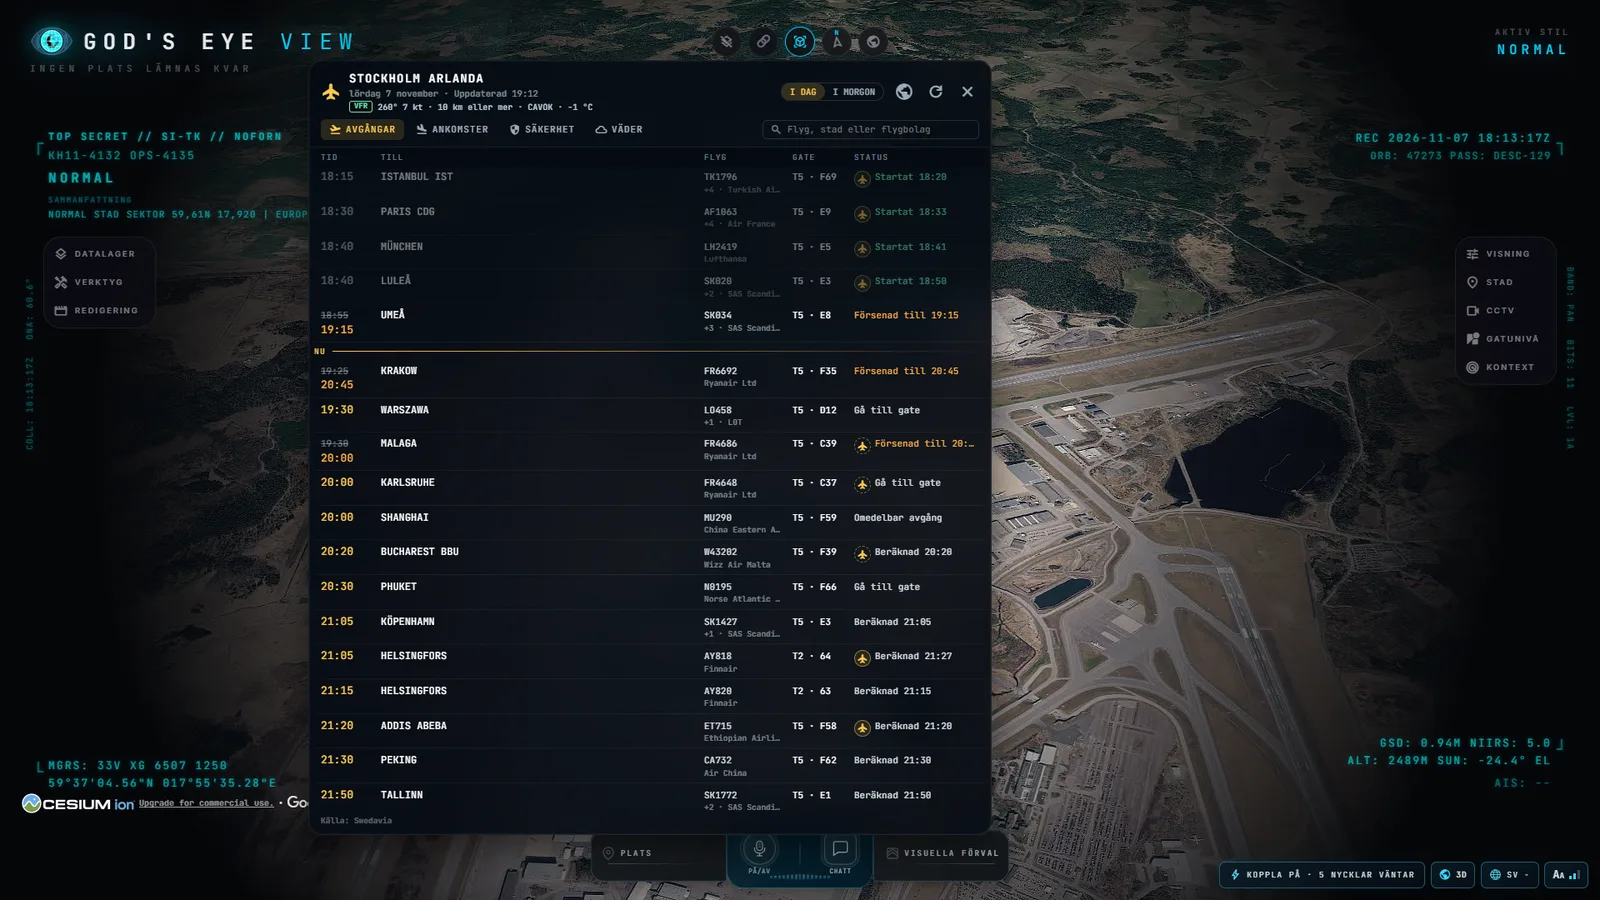
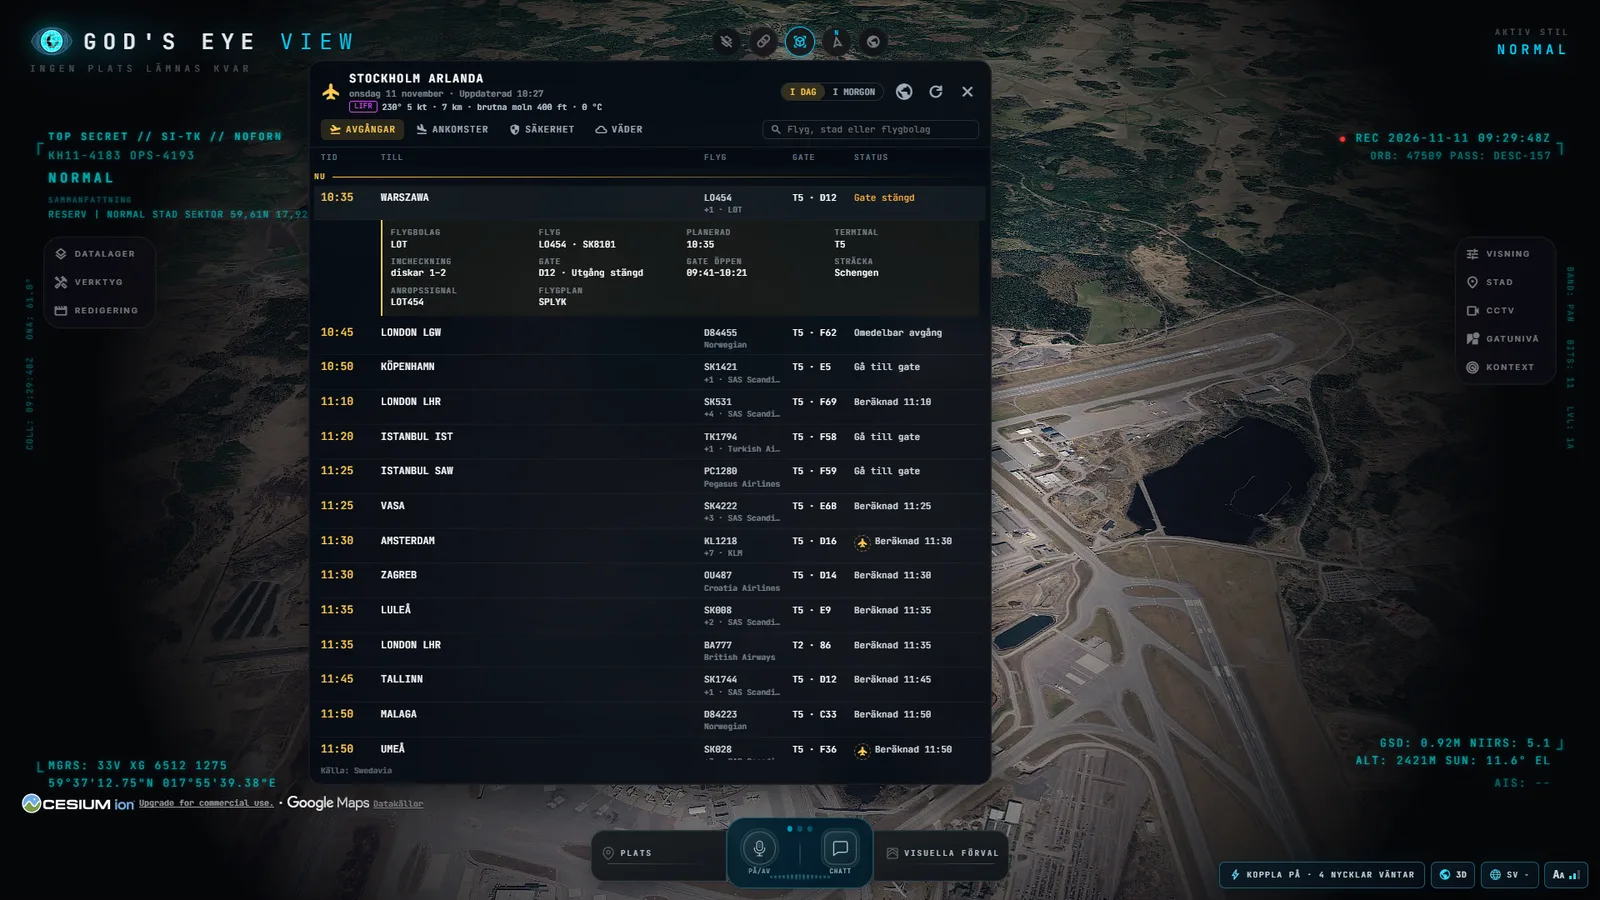
Flygtavlan täcker inte kartans källangivelse; Swedavias villkor lästa
- Flygtavlan slutar ovanför kartans källangivelse. Tidigare täckte den
  Google Maps- och Cesium-loggan, som enligt villkoren alltid ska synas.
- README:s bild av flygtavlan är tagen om, med loggorna synliga.
- SVERIGE.md: Swedavias villkor (licens att visa datan offentligt i en
  egen app, Swedavia ska anges som källa) ersätter "inga villkor
  publicerade"; Open-Meteos villkor för vädret i cockpit är tillagda.

Kontrollerat i inspelning i 3D-läget; inga kodändringar utöver stilmallen.
SVERIGE.md uppdaterad.

Changed region(s): [[0.0625, 0.0, 0.875, 1.0], [0.2188, 0.0933, 0.375, 0.1244], [0.8438, 0.84, 0.9375, 0.8711]]

diff --git a/src/ui/styles/airport-board.css b/src/ui/styles/airport-board.css
@@ -11,7 +11,9 @@
   display: flex;
   flex-direction: column;
   width: min(820px, calc(100vw - 32px));
-  max-height: calc(100svh - 150px);
+  /* Ends above the map credits (about 125px from the bottom): Google's and
+     Cesium's logos must never be covered. */
+  max-height: calc(100svh - 210px);
   box-sizing: border-box;
   border: 1px solid var(--glass-border);
   border-radius: var(--panel-radius);

diff --git a/SVERIGE.md b/SVERIGE.md
@@ -172,9 +172,19 @@ licens ska helst ersättas med en dokumenterad källa eller godkännas:
   för vad som helst. Priserna är Nord Pools och hämtas från ENTSO-E, där
   dagens priser inte står på listan över data som är fri att återanvända.
   Källan anges som "Elpriset just nu.se (Nord Pool via ENTSO-E)".
-- **Swedavia (flygtavlan, dossiern):** inga villkor publicerade; Swedavias
-  öppna API:er "kan delas" enligt deras frågor och svar. Swedavia anges som
-  källa.
+- **Swedavia (flygtavlan, dossiern, cockpit):** villkoren lästa 2026-11-11
+  (apideveloper.swedavia.se, "Terms of Use" vid registreringen). Swedavia
+  ger en licens att använda och visa datan offentligt i en egen app eller
+  webbtjänst (3.3), och det ska tydligt framgå att datan kommer från
+  Swedavia, helst med en länk till swedavia.se (3.4, 5.1). Oförändrad data
+  får visas i egna appar men inte skickas vidare till andra system eller
+  säljas (3.7), och nyckeln får inte lämnas till någon annan (5.2).
+  Tavlan och dossiern anger "Källa: Swedavia".
+- **Open-Meteo (vädret i cockpit, originalets lager):** villkoren lästa
+  2026-11-11 (open-meteo.com/en/terms). Den fria nivån gäller bara
+  icke-kommersiellt bruk, under 10 000 anrop per dygn, och datan är CC BY
+  4.0. Marknadsföring räknas som kommersiellt, så cockpitens väderpanel
+  visas inte i filmer.
 - **Kolada (dossiern):** fritt, även kommersiellt, men källan ska anges som
   "Kolada", värden vi själva räknar fram får inte anges med Kolada som källa,
   och appen får inte framstå som ett officiellt samarbete.
@@ -321,6 +331,15 @@ git merge origin/main
 (`origin` = bilawalsidhu/gods-eye-view, `sweden` = det här repot.)
 
 ## Logg över justeringar
+
+### 2026-11-11 (flygtavlan över källangivelsen; Swedavias villkor)
+- Flygtavlan slutar nu ovanför kartans källangivelse. Tidigare räckte den
+  så långt ner att den täckte Google Maps- och Cesium-loggan, som enligt
+  villkoren alltid ska synas.
+- README:s bild av flygtavlan är tagen om, med loggorna synliga.
+- Swedavias villkor är hittade och lästa; de står under "Källor med oklara
+  eller särskilda villkor" i stället för att Swedavia saknar villkor.
+  Open-Meteos villkor (vädret i cockpit) står där också.
 
 ### 2026-11-11 (tre README-bilder tagna om)
 - Titelfilmen, cockpitbilden och bilden på kraftsystemet är tagna om i
